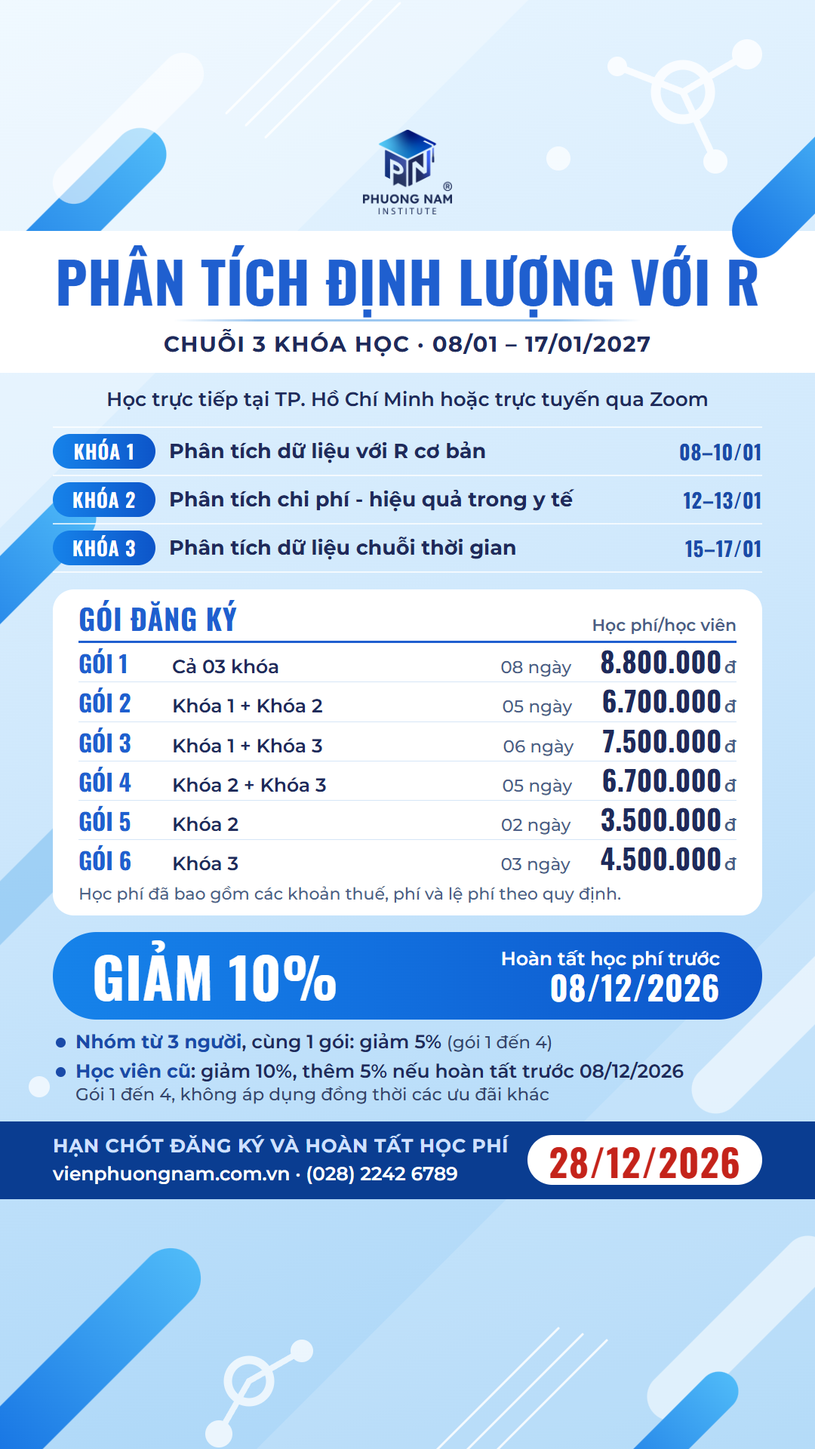
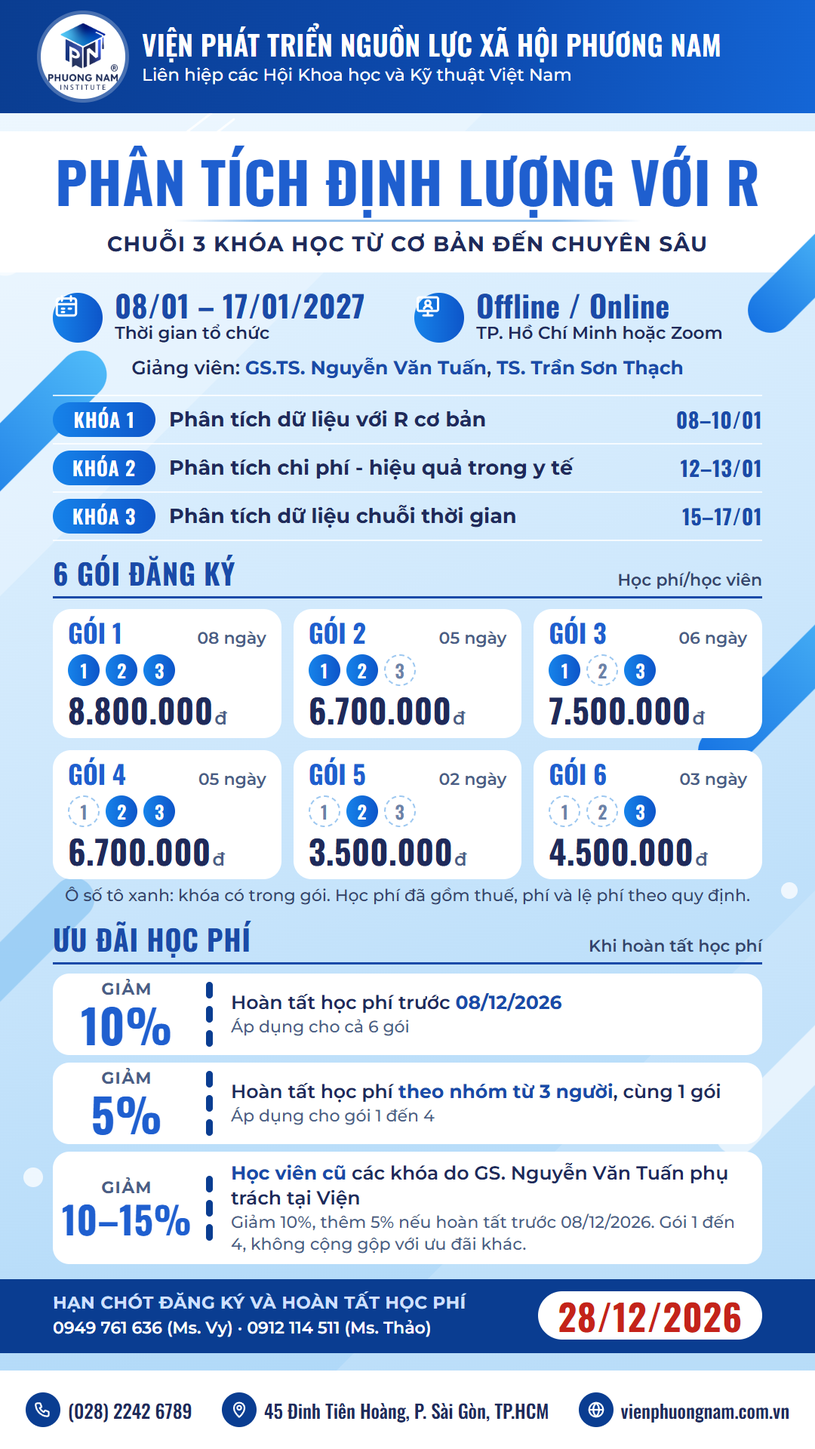
Fill the Story poster top to bottom and show packages as cards
Feedback on the first Story version: too much empty space at the top
and bottom, and the six-row package table should go. The layout now
follows the institute's approved posters while keeping the Magnific
"Gradient science" style.

- Header strip with the logo in a white circle, the institute's full
  name and its parent body; white footer strip with phone, address
  and website icons.
- Packages as six cards (3x2): three numbered course dots per card,
  filled for courses in the package and dashed for courses not in it,
  plus duration and fee. A one-line key under the cards explains the dots.
- Discounts as three coupons (10% before 08/12/2026 for all packages,
  5% for groups of 3+ on packages 1-4, 10-15% for returning learners,
  not combined with other offers), as on the approved poster.
- Date and Offline/Online facts with round icons, faculty line, and
  the 28/12/2026 deadline strip with Ms. Vy and Ms. Thao's numbers.
- Contrast fixes found by the detector: white sub-line in the header
  and #6b82a8 numbers on the "not included" dots (3.90:1, large bold).
- .impeccable/config.json: file-scoped ignore for the decorative
  capsule background flagged as an assembled illustration.

diff --git a/media/poster/ads/story-khoa-goi-uu-dai.html b/media/poster/ads/story-khoa-goi-uu-dai.html
@@ -4,86 +4,109 @@
 <meta charset="utf-8">
 <title>Story · Khóa học, gói, học phí, ưu đãi · Phân tích định lượng với R</title>
 <link rel="preconnect" href="https://fonts.googleapis.com">
-<link href="https://fonts.googleapis.com/css2?family=Montserrat:wght@500;600;700&family=Oswald:wght@600;700&display=swap" rel="stylesheet">
+<link href="https://fonts.googleapis.com/css2?family=Montserrat:wght@500;600;700&family=Oswald:wght@500;600;700&display=swap" rel="stylesheet">
 <style>
   /*
-    Style follows the "Gradient science" template series the client chose (magnific.com/serie/18774762):
-    pale sky gradient, diagonal capsules, a white headline band, condensed caps + geometric sans.
-    The blue gradient is taken from the logo's own cyan-to-navy gradient. Shapes are drawn here, not copied.
+    Style: the "Gradient science" template series the client chose (magnific.com/serie/18774762),
+    combined with the structure of the institute's approved posters: header strip with logo and
+    institute name, icon footer strip, coupon-style discounts. Blue gradient comes from the logo.
+    All shapes and icons are drawn here; no template files are used.
   */
   :root {
     --sky-0: #eaf6ff; --sky-1: #cfe8fc; --sky-2: #a6d4f7;
     --royal: #1f5fcf; --royal-ink: #1a4aa8; --navy: #1f2a5a; --muted: #4a5d86; --muted-ink: #34456c;
-    --deep: #0a3d91; --tint: #cfe0ff; --signal: #c4231a; --line: #d6e6f7;
+    --deep: #0a3d91; --tint: #cfe0ff; --signal: #c4231a; --line: #d6e6f7; --off: #9cc7f0;
+    --grad: linear-gradient(90deg, #1683ea, #0d55c9);
     --display: "Oswald", "Arial Narrow", sans-serif;
     --text: "Montserrat", "Segoe UI", sans-serif;
   }
   * { box-sizing: border-box; margin: 0; padding: 0; }
   html, body { background: #dfe7f0; }
 
-  /* Artboard: Instagram/Facebook Story 1080 x 1920. Top ~180 px and bottom ~280 px stay free of key text (app UI, CTA button). */
   .ad {
     width: 1080px; height: 1920px; margin: 0 auto; position: relative; overflow: hidden;
     background: linear-gradient(162deg, var(--sky-0) 0%, var(--sky-1) 46%, var(--sky-2) 100%);
     font-family: var(--text); color: var(--navy); font-variant-numeric: lining-nums tabular-nums;
+    display: flex; flex-direction: column;
   }
   .decor { position: absolute; inset: 0; width: 1080px; height: 1920px; }
   .decor.front { z-index: 3; pointer-events: none; }
-  .content { position: relative; z-index: 2; padding-top: 172px; display: flex; flex-direction: column; align-items: center; }
+  .ad > header, .ad > main, .ad > footer { position: relative; z-index: 2; }
 
-  .logo { height: 112px; }
+  /* Header strip, as on the approved posters */
+  .top { flex: none; height: 150px; background: linear-gradient(100deg, #0a3d91 0%, #0d4bb0 60%, #1466d6 100%); color: #fff;
+         display: flex; align-items: center; gap: 22px; padding: 0 54px; overflow: hidden; }
+  .top .badge { flex: none; width: 112px; height: 112px; border-radius: 50%; background: #fff; display: grid; place-items: center;
+                box-shadow: 0 0 0 5px rgba(255, 255, 255, 0.25); }
+  .top .badge img { width: 92px; }
+  .top p { font: 600 37px/1.3 var(--display); text-transform: uppercase; letter-spacing: 0.01em; }
+  .top p small { display: block; font: 500 23px/1.3 var(--text); text-transform: none; letter-spacing: 0; color: #fff; margin-top: 2px; }
 
-  .band { margin-top: 22px; width: 100%; background: #fff; padding: 22px 70px 20px; text-align: center; }
-  .band h1 { white-space: nowrap; font: 700 75px/1.16 var(--display); color: var(--royal); text-transform: uppercase; letter-spacing: 0.005em; }
-  .band hr { border: 0; height: 3px; width: 620px; margin: 8px auto 12px; background: linear-gradient(90deg, transparent, #9cc7f0 18%, #9cc7f0 82%, transparent); }
-  .band p { font: 700 29px/1.25 var(--text); text-transform: uppercase; letter-spacing: 0.05em; color: var(--navy); }
-
-  .intro { margin-top: 18px; text-align: center; }
-  .intro b { display: block; font: 700 36px/1.2 var(--text); color: var(--royal); }
-  .intro span { display: block; font: 600 26px/1.35 var(--text); }
-
+  main { flex: 1; display: flex; flex-direction: column; align-items: center; }
   .col { width: 940px; }
 
-  .courses { margin-top: 18px; }
-  .course { display: grid; grid-template-columns: 136px 1fr auto; align-items: center; column-gap: 18px; padding: 8px 0; border-bottom: 2px solid rgba(255, 255, 255, 0.75); }
-  .course:first-child { border-top: 2px solid rgba(255, 255, 255, 0.75); }
+  .band { margin-top: 24px; width: 100%; background: #fff; padding: 22px 70px 20px; text-align: center; }
+  .band h1 { white-space: nowrap; font: 700 75px/1.16 var(--display); color: var(--royal); text-transform: uppercase; letter-spacing: 0.005em; }
+  .band hr { border: 0; height: 3px; width: 620px; margin: 8px auto 12px; background: linear-gradient(90deg, transparent, var(--off) 18%, var(--off) 82%, transparent); }
+  .band p { font: 700 28px/1.25 var(--text); text-transform: uppercase; letter-spacing: 0.05em; }
+
+  .facts { margin-top: 22px; display: grid; grid-template-columns: 1fr 1fr; gap: 18px; }
+  .fact { display: flex; align-items: center; gap: 16px; }
+  .ico { flex: none; width: 66px; height: 66px; border-radius: 50%; background: var(--grad); display: grid; place-items: center; }
+  .ico svg { width: 36px; height: 36px; }
+  .fact b { display: block; font: 700 40px/1.05 var(--display); color: var(--royal-ink); letter-spacing: 0.01em; }
+  .fact span { display: block; font: 600 23px/1.3 var(--text); margin-top: 2px; }
+  .teach { margin-top: 14px; text-align: center; font: 600 25px/1.35 var(--text); }
+  .teach b { color: var(--royal-ink); }
+
+  .label { display: flex; align-items: baseline; justify-content: space-between; margin-top: 22px; padding-bottom: 8px; border-bottom: 3px solid var(--royal-ink); }
+  .label h2 { font: 700 38px/1.1 var(--display); color: var(--royal-ink); text-transform: uppercase; letter-spacing: 0.02em; }
+  .label span { font: 600 22px/1.2 var(--text); color: var(--muted-ink); }
+
+  .courses { margin-top: 18px; border-top: 2px solid rgba(255, 255, 255, 0.8); }
+  .course { display: grid; grid-template-columns: 136px 1fr auto; align-items: center; column-gap: 18px; padding: 8px 0; border-bottom: 2px solid rgba(255, 255, 255, 0.8); }
   .pill { display: inline-flex; justify-content: center; align-items: center; height: 46px; border-radius: 23px; color: #fff;
-          background: linear-gradient(90deg, #1683ea, #0d55c9); font: 600 26px/1 var(--display); letter-spacing: 0.04em; text-transform: uppercase; }
+          background: var(--grad); font: 600 26px/1 var(--display); letter-spacing: 0.04em; text-transform: uppercase; }
   .course .name { font: 700 27px/1.25 var(--text); }
-  .course .when { font: 700 27px/1 var(--display); color: var(--royal-ink); letter-spacing: 0.02em; }
+  .course .when { font: 700 28px/1 var(--display); color: var(--royal-ink); letter-spacing: 0.02em; }
 
-  .panel { margin-top: 22px; background: #fff; border-radius: 28px; padding: 18px 34px 14px; }
-  .panel-head { display: flex; justify-content: space-between; align-items: baseline; padding-bottom: 8px; border-bottom: 3px solid var(--royal); }
-  .panel-head h2 { font: 700 38px/1.1 var(--display); color: var(--royal); text-transform: uppercase; letter-spacing: 0.02em; }
-  .panel-head span { font: 600 22px/1 var(--text); color: var(--muted); }
-  .pkg { display: grid; grid-template-columns: 112px 1fr 120px auto; align-items: baseline; column-gap: 12px; padding: 5px 0 4px; border-bottom: 1px solid var(--line); }
-  .pkg .id { font: 700 31px/1.1 var(--display); color: var(--royal); text-transform: uppercase; }
-  .pkg .inc { font: 600 25px/1.25 var(--text); }
-  .pkg .dur { font: 500 23px/1.25 var(--text); color: var(--muted); }
-  .pkg .fee { font: 700 37px/1.05 var(--display); color: var(--navy); text-align: right; letter-spacing: 0.01em; }
-  .pkg .fee small { font: 600 23px var(--text); color: var(--muted); margin-left: 3px; }
-  .pkg:last-of-type { border-bottom: 0; }
-  .tax { margin-top: 6px; font: 500 22px/1.3 var(--text); color: var(--muted); }
+  /* Packages as cards: which courses (dots 1-2-3), days, fee */
+  .packs { margin-top: 14px; display: grid; grid-template-columns: repeat(3, 1fr); gap: 16px; }
+  .pack { background: #fff; border-radius: 24px; padding: 14px 20px 12px; }
+  .pack .hd { display: flex; justify-content: space-between; align-items: baseline; }
+  .pack .hd b { font: 700 34px/1 var(--display); color: var(--royal); text-transform: uppercase; }
+  .pack .hd span { font: 600 22px/1 var(--text); color: var(--muted); }
+  .dots { display: flex; gap: 8px; margin-top: 10px; }
+  .dot { width: 42px; height: 42px; border-radius: 50%; display: grid; place-items: center; font: 600 24px/1 var(--display); font-style: normal; }
+  .dot.on { background: var(--grad); color: #fff; }
+  .dot.off { border: 2px dashed var(--off); color: #6b82a8; }
+  .pack .fee { margin-top: 10px; font: 700 44px/1 var(--display); color: var(--navy); letter-spacing: 0.01em; }
+  .pack .fee small { font: 600 24px var(--text); color: var(--muted); margin-left: 2px; }
+  .tax { margin-top: 8px; font: 500 22px/1.3 var(--text); color: var(--muted-ink); text-align: center; }
 
-  .deal { margin-top: 22px; height: 116px; border-radius: 58px; display: flex; align-items: center; justify-content: space-between; padding: 0 56px 0 52px;
-          background: linear-gradient(90deg, #1683ea 0%, #1270df 45%, #0d55c9 100%); color: #fff; }
-  .deal strong { font: 700 74px/1 var(--display); letter-spacing: 0.01em; text-transform: uppercase; }
-  .deal div { text-align: right; }
-  .deal div span { display: block; font: 600 25px/1.2 var(--text); }
-  .deal div b { display: block; font: 700 44px/1.05 var(--display); letter-spacing: 0.02em; }
-
-  .more { margin-top: 12px; list-style: none; }
-  .more li { position: relative; padding-left: 30px; font: 600 25px/1.38 var(--text); }
-  .more li + li { margin-top: 4px; }
-  .more li::before { content: ""; position: absolute; left: 4px; top: 12px; width: 13px; height: 13px; border-radius: 50%; background: var(--royal-ink); }
-  .more li b { color: var(--royal-ink); }
-  .more li small { font: 500 23px/1.3 var(--text); color: var(--muted-ink); }
-  .more li small.cond { display: block; }
+  /* Discounts as coupons, as on the approved poster */
+  .coupons { margin-top: 12px; display: grid; gap: 10px; }
+  .coupon { background: #fff; border-radius: 22px; display: grid; grid-template-columns: 196px 22px 1fr; align-items: center; min-height: 96px; }
+  .coupon .stub { text-align: center; padding: 10px 0; }
+  .coupon .stub small { display: block; font: 700 22px/1 var(--text); color: var(--muted); letter-spacing: 0.06em; text-transform: uppercase; }
+  .coupon .stub b { display: block; margin-top: 4px; font: 700 62px/1 var(--display); color: var(--royal); letter-spacing: 0.01em; }
+  .coupon .stub b.sm { font-size: 50px; }
+  .perf { display: grid; gap: 10px; justify-items: center; }
+  .perf i { display: block; width: 9px; height: 22px; border-radius: 5px; background: var(--deep); }
+  .coupon p { padding: 12px 26px 12px 18px; font: 600 25px/1.32 var(--text); }
+  .coupon p em { font-style: normal; color: var(--royal-ink); font-weight: 700; }
+  .coupon p small { display: block; margin-top: 2px; font: 500 22px/1.3 var(--text); color: var(--muted); }
 
   .deadline { margin-top: 20px; width: 100%; background: var(--deep); color: #fff; padding: 16px 70px 18px; display: flex; justify-content: space-between; align-items: center; gap: 24px; }
-  .deadline .lbl { font: 700 25px/1.3 var(--text); color: var(--tint); text-transform: uppercase; letter-spacing: 0.03em; }
-  .deadline .lbl small { display: block; margin-top: 4px; font: 600 25px/1.3 var(--text); color: #fff; text-transform: none; letter-spacing: 0; }
-  .deadline .date { background: #fff; color: var(--signal); border-radius: 40px; padding: 9px 28px 7px; font: 700 50px/1 var(--display); letter-spacing: 0.02em; white-space: nowrap; }
+  .deadline .lbl { font: 700 23px/1.3 var(--text); color: var(--tint); text-transform: uppercase; letter-spacing: 0.02em; }
+  .deadline .lbl small { display: block; margin-top: 4px; font: 600 22px/1.3 var(--text); color: #fff; text-transform: none; letter-spacing: 0; }
+  .deadline .date { background: #fff; color: var(--signal); border-radius: 40px; padding: 9px 26px 7px; font: 700 48px/1 var(--display); letter-spacing: 0.02em; white-space: nowrap; }
+
+  /* Footer strip, as on the approved posters */
+  .foot { flex: none; height: 104px; margin-top: auto; background: #fff; display: flex; align-items: center; justify-content: space-between; padding: 0 34px; }
+  .foot div { display: flex; align-items: center; gap: 10px; font: 500 25px/1 var(--display); color: var(--navy); white-space: nowrap; }
+  .foot .ico { width: 46px; height: 46px; background: var(--deep); }
+  .foot .ico svg { width: 26px; height: 26px; }
 </style>
 </head>
 <body>
@@ -96,103 +119,106 @@
         <stop offset="1" stop-color="#1673e3"/>
       </linearGradient>
     </defs>
-    <polygon points="0,0 700,0 0,700" fill="#fff" opacity=".28"/>
-    <polygon points="1080,1920 1080,1180 340,1920" fill="#fff" opacity=".16"/>
+    <polygon points="0,150 640,150 0,790" fill="#fff" opacity=".28"/>
+    <polygon points="1080,1816 1080,1180 446,1816" fill="#fff" opacity=".16"/>
 
-    <!-- top left -->
-    <rect x="55" y="130" width="70" height="340" rx="35" fill="url(#capsule)" transform="rotate(45 90 300)"/>
-    <rect x="142" y="40" width="56" height="260" rx="28" fill="#fff" opacity=".6" transform="rotate(45 170 170)"/>
+    <!-- upper left, beside the band and facts -->
+    <rect x="-6" y="430" width="64" height="300" rx="32" fill="url(#capsule)" transform="rotate(45 26 580)"/>
+    <rect x="40" y="170" width="52" height="220" rx="26" fill="#fff" opacity=".6" transform="rotate(45 66 280)"/>
     <g stroke="#fff" stroke-width="3" opacity=".85" stroke-linecap="round">
-      <line x1="300" y1="150" x2="470" y2="-20"/>
-      <line x1="326" y1="166" x2="500" y2="-8"/>
-      <line x1="352" y1="182" x2="530" y2="4"/>
+      <line x1="150" y1="250" x2="280" y2="150"/>
+      <line x1="176" y1="262" x2="310" y2="158"/>
     </g>
 
-    <!-- top right: data nodes -->
-    <g fill="#fff" opacity=".8">
-      <g stroke="#fff" stroke-width="9" stroke-linecap="round">
-        <line x1="905" y1="122" x2="990" y2="72"/>
-        <line x1="905" y1="122" x2="948" y2="214"/>
-        <line x1="905" y1="122" x2="818" y2="88"/>
-      </g>
-      <circle cx="905" cy="122" r="36" fill="none" stroke="#fff" stroke-width="13"/>
-      <circle cx="990" cy="72" r="20"/>
-      <circle cx="948" cy="214" r="16"/>
-      <circle cx="818" cy="88" r="13"/>
-    </g>
-    <circle cx="740" cy="210" r="16" fill="#fff" opacity=".7"/>
-
-    <!-- left middle -->
-    <rect x="30" y="1000" width="60" height="300" rx="30" fill="#8cc6f3" opacity=".7" transform="rotate(45 60 1150)"/>
-    <rect x="-20" y="620" width="64" height="300" rx="32" fill="url(#capsule)" transform="rotate(45 12 770)"/>
-    <circle cx="52" cy="1440" r="14" fill="#fff" opacity=".7"/>
-
-    <!-- right middle -->
-    <rect x="1000" y="1210" width="64" height="300" rx="32" fill="#fff" opacity=".55" transform="rotate(45 1032 1360)"/>
-
-    <!-- bottom -->
-    <rect x="80" y="1610" width="80" height="380" rx="40" fill="url(#capsule)" transform="rotate(45 120 1800)"/>
-    <rect x="948" y="1600" width="64" height="320" rx="32" fill="#fff" opacity=".55" transform="rotate(45 980 1760)"/>
-    <rect x="860" y="1790" width="52" height="240" rx="26" fill="url(#capsule)" transform="rotate(45 886 1910)"/>
-    <g stroke="#fff" stroke-width="3" opacity=".85" stroke-linecap="round">
-      <line x1="560" y1="1940" x2="740" y2="1760"/>
-      <line x1="590" y1="1950" x2="772" y2="1768"/>
-      <line x1="620" y1="1960" x2="804" y2="1776"/>
-    </g>
-    <g fill="#fff" opacity=".75">
+    <!-- upper right: data nodes -->
+    <g fill="#fff" opacity=".85">
       <g stroke="#fff" stroke-width="8" stroke-linecap="round">
-        <line x1="330" y1="1830" x2="400" y2="1790"/>
-        <line x1="330" y1="1830" x2="290" y2="1900"/>
+        <line x1="962" y1="236" x2="1030" y2="196"/>
+        <line x1="962" y1="236" x2="996" y2="300"/>
+        <line x1="962" y1="236" x2="896" y2="206"/>
       </g>
-      <circle cx="330" cy="1830" r="28" fill="none" stroke="#fff" stroke-width="11"/>
-      <circle cx="400" cy="1790" r="15"/>
-      <circle cx="290" cy="1900" r="18"/>
+      <circle cx="962" cy="236" r="28" fill="none" stroke="#fff" stroke-width="10"/>
+      <circle cx="1030" cy="196" r="15"/>
+      <circle cx="996" cy="300" r="12"/>
+      <circle cx="896" cy="206" r="10"/>
     </g>
+
+    <!-- middle edges -->
+    <rect x="1010" y="760" width="60" height="300" rx="30" fill="url(#capsule)" transform="rotate(45 1040 910)"/>
+    <rect x="-10" y="1130" width="56" height="280" rx="28" fill="#8cc6f3" opacity=".7" transform="rotate(45 18 1270)"/>
+    <rect x="1020" y="1300" width="56" height="260" rx="28" fill="#fff" opacity=".6" transform="rotate(45 1048 1430)"/>
+    <circle cx="44" cy="1560" r="13" fill="#fff" opacity=".75"/>
+    <circle cx="1046" cy="1180" r="11" fill="#fff" opacity=".75"/>
   </svg>
 
-  <div class="content">
-    <img class="logo" src="../../brand-kit/logo/logo-color.png" alt="Viện Phương Nam">
+  <header class="top">
+    <span class="badge"><img src="../../brand-kit/logo/logo-color.png" alt="Logo Viện Phương Nam"></span>
+    <p>Viện Phát triển Nguồn lực Xã hội Phương Nam<small>Liên hiệp các Hội Khoa học và Kỹ thuật Việt Nam</small></p>
+  </header>
 
-    <header class="band">
+  <main>
+    <section class="band">
       <h1>Phân tích định lượng với R</h1>
       <hr>
-      <p>Chuỗi 3 khóa học · 08/01 – 17/01/2027</p>
-    </header>
-
-    <div class="intro">
-      <span>Học trực tiếp tại TP. Hồ Chí Minh hoặc trực tuyến qua Zoom</span>
-    </div>
-
-    <section class="col courses" aria-label="Ba khóa học">
-      <div class="course"><span class="pill">Khóa 1</span><span class="name">Phân tích dữ liệu với R cơ bản</span><span class="when">08–10/01</span></div>
-      <div class="course"><span class="pill">Khóa 2</span><span class="name">Phân tích chi phí - hiệu quả trong y tế</span><span class="when">12–13/01</span></div>
-      <div class="course"><span class="pill">Khóa 3</span><span class="name">Phân tích dữ liệu chuỗi thời gian</span><span class="when">15–17/01</span></div>
+      <p>Chuỗi 3 khóa học từ cơ bản đến chuyên sâu</p>
     </section>
 
-    <section class="col panel" aria-label="Gói đăng ký và học phí">
-      <div class="panel-head"><h2>Gói đăng ký</h2><span>Học phí/học viên</span></div>
-      <div class="pkg"><span class="id">Gói 1</span><span class="inc">Cả 03 khóa</span><span class="dur">08 ngày</span><span class="fee">8.800.000<small>đ</small></span></div>
-      <div class="pkg"><span class="id">Gói 2</span><span class="inc">Khóa 1 + Khóa 2</span><span class="dur">05 ngày</span><span class="fee">6.700.000<small>đ</small></span></div>
-      <div class="pkg"><span class="id">Gói 3</span><span class="inc">Khóa 1 + Khóa 3</span><span class="dur">06 ngày</span><span class="fee">7.500.000<small>đ</small></span></div>
-      <div class="pkg"><span class="id">Gói 4</span><span class="inc">Khóa 2 + Khóa 3</span><span class="dur">05 ngày</span><span class="fee">6.700.000<small>đ</small></span></div>
-      <div class="pkg"><span class="id">Gói 5</span><span class="inc">Khóa 2</span><span class="dur">02 ngày</span><span class="fee">3.500.000<small>đ</small></span></div>
-      <div class="pkg"><span class="id">Gói 6</span><span class="inc">Khóa 3</span><span class="dur">03 ngày</span><span class="fee">4.500.000<small>đ</small></span></div>
-      <p class="tax">Học phí đã bao gồm các khoản thuế, phí và lệ phí theo quy định.</p>
+    <div class="col facts">
+      <div class="fact">
+        <span class="ico"><svg viewBox="0 0 24 24" fill="none" stroke="#fff" stroke-width="2" stroke-linecap="round" stroke-linejoin="round"><rect x="3.5" y="5" width="17" height="15" rx="2"/><path d="M3.5 10h17M8 3v4M16 3v4M8 14h2M14 14h2M8 17h2"/></svg></span>
+        <div><b>08/01 – 17/01/2027</b><span>Thời gian tổ chức</span></div>
+      </div>
+      <div class="fact">
+        <span class="ico"><svg viewBox="0 0 24 24" fill="none" stroke="#fff" stroke-width="2" stroke-linecap="round" stroke-linejoin="round"><rect x="3" y="4" width="18" height="12" rx="1.5"/><path d="M8 20h8M12 16v4"/><circle cx="12" cy="9" r="2.2"/><path d="M8.5 14c.6-1.6 2-2.4 3.5-2.4s2.9.8 3.5 2.4"/></svg></span>
+        <div><b>Offline / Online</b><span>TP. Hồ Chí Minh hoặc Zoom</span></div>
+      </div>
+    </div>
+    <p class="col teach">Giảng viên: <b>GS.TS. Nguyễn Văn Tuấn</b>, <b>TS. Trần Sơn Thạch</b></p>
+
+    <section class="col" aria-label="Ba khóa học">
+      <div class="courses">
+        <div class="course"><span class="pill">Khóa 1</span><span class="name">Phân tích dữ liệu với R cơ bản</span><span class="when">08–10/01</span></div>
+        <div class="course"><span class="pill">Khóa 2</span><span class="name">Phân tích chi phí - hiệu quả trong y tế</span><span class="when">12–13/01</span></div>
+        <div class="course"><span class="pill">Khóa 3</span><span class="name">Phân tích dữ liệu chuỗi thời gian</span><span class="when">15–17/01</span></div>
+      </div>
+    </section>
+
+    <section class="col" aria-label="Gói đăng ký và học phí">
+      <div class="label"><h2>6 gói đăng ký</h2><span>Học phí/học viên</span></div>
+      <div class="packs">
+        <div class="pack"><div class="hd"><b>Gói 1</b><span>08 ngày</span></div><div class="dots"><i class="dot on">1</i><i class="dot on">2</i><i class="dot on">3</i></div><p class="fee">8.800.000<small>đ</small></p></div>
+        <div class="pack"><div class="hd"><b>Gói 2</b><span>05 ngày</span></div><div class="dots"><i class="dot on">1</i><i class="dot on">2</i><i class="dot off">3</i></div><p class="fee">6.700.000<small>đ</small></p></div>
+        <div class="pack"><div class="hd"><b>Gói 3</b><span>06 ngày</span></div><div class="dots"><i class="dot on">1</i><i class="dot off">2</i><i class="dot on">3</i></div><p class="fee">7.500.000<small>đ</small></p></div>
+        <div class="pack"><div class="hd"><b>Gói 4</b><span>05 ngày</span></div><div class="dots"><i class="dot off">1</i><i class="dot on">2</i><i class="dot on">3</i></div><p class="fee">6.700.000<small>đ</small></p></div>
+        <div class="pack"><div class="hd"><b>Gói 5</b><span>02 ngày</span></div><div class="dots"><i class="dot off">1</i><i class="dot on">2</i><i class="dot off">3</i></div><p class="fee">3.500.000<small>đ</small></p></div>
+        <div class="pack"><div class="hd"><b>Gói 6</b><span>03 ngày</span></div><div class="dots"><i class="dot off">1</i><i class="dot off">2</i><i class="dot on">3</i></div><p class="fee">4.500.000<small>đ</small></p></div>
+      </div>
+      <p class="tax">Ô số tô xanh: khóa có trong gói. Học phí đã gồm thuế, phí và lệ phí theo quy định.</p>
     </section>
 
     <section class="col" aria-label="Ưu đãi học phí">
-      <div class="deal"><strong>Giảm 10%</strong><div><span>Hoàn tất học phí trước</span><b>08/12/2026</b></div></div>
-      <ul class="more">
-        <li><b>Nhóm từ 3 người</b>, cùng 1 gói: giảm 5% <small>(gói 1 đến 4)</small></li>
-        <li><b>Học viên cũ</b>: giảm 10%, thêm 5% nếu hoàn tất trước 08/12/2026 <small class="cond">Gói 1 đến 4, không áp dụng đồng thời các ưu đãi khác</small></li>
-      </ul>
+      <div class="label"><h2>Ưu đãi học phí</h2><span>Khi hoàn tất học phí</span></div>
+      <div class="coupons">
+        <div class="coupon"><div class="stub"><small>Giảm</small><b>10%</b></div><div class="perf"><i></i><i></i><i></i></div>
+          <p>Hoàn tất học phí trước <em>08/12/2026</em><small>Áp dụng cho cả 6 gói</small></p></div>
+        <div class="coupon"><div class="stub"><small>Giảm</small><b>5%</b></div><div class="perf"><i></i><i></i><i></i></div>
+          <p>Hoàn tất học phí <em>theo nhóm từ 3 người</em>, cùng 1 gói<small>Áp dụng cho gói 1 đến 4</small></p></div>
+        <div class="coupon"><div class="stub"><small>Giảm</small><b class="sm">10–15%</b></div><div class="perf"><i></i><i></i><i></i></div>
+          <p><em>Học viên cũ</em> các khóa do GS. Nguyễn Văn Tuấn phụ trách tại Viện<small>Giảm 10%, thêm 5% nếu hoàn tất trước 08/12/2026. Gói 1 đến 4, không cộng gộp với ưu đãi khác.</small></p></div>
+      </div>
     </section>
 
     <section class="deadline" aria-label="Hạn chót">
-      <p class="lbl">Hạn chót đăng ký và hoàn tất học phí<small>vienphuongnam.com.vn · (028) 2242 6789</small></p>
+      <p class="lbl">Hạn chót đăng ký và hoàn tất học phí<small>0949 761 636 (Ms. Vy) · 0912 114 511 (Ms. Thảo)</small></p>
       <span class="date">28/12/2026</span>
     </section>
-  </div>
+  </main>
+
+  <footer class="foot">
+    <div><span class="ico"><svg viewBox="0 0 24 24" fill="none" stroke="#fff" stroke-width="2" stroke-linecap="round" stroke-linejoin="round"><path d="M5 4h3.5l1.8 4.5-2.3 1.4a11 11 0 0 0 5.1 5.1l1.4-2.3 4.5 1.8V18a2 2 0 0 1-2 2A15 15 0 0 1 3 6a2 2 0 0 1 2-2z"/></svg></span>(028) 2242 6789</div>
+    <div><span class="ico"><svg viewBox="0 0 24 24" fill="none" stroke="#fff" stroke-width="2" stroke-linecap="round" stroke-linejoin="round"><path d="M12 21s-6.5-6-6.5-11.2a6.5 6.5 0 0 1 13 0C18.5 15 12 21 12 21z"/><circle cx="12" cy="9.6" r="2.4"/></svg></span>45 Đinh Tiên Hoàng, P. Sài Gòn, TP.HCM</div>
+    <div><span class="ico"><svg viewBox="0 0 24 24" fill="none" stroke="#fff" stroke-width="2" stroke-linecap="round" stroke-linejoin="round"><circle cx="12" cy="12" r="8.5"/><path d="M3.5 12h17M12 3.5c2.4 2.4 3.6 5.2 3.6 8.5s-1.2 6.1-3.6 8.5c-2.4-2.4-3.6-5.2-3.6-8.5S9.6 5.9 12 3.5z"/></svg></span>vienphuongnam.com.vn</div>
+  </footer>
 
   <svg class="decor front" viewBox="0 0 1080 1920" aria-hidden="true">
     <defs>
@@ -201,7 +227,7 @@
         <stop offset="1" stop-color="#1673e3"/>
       </linearGradient>
     </defs>
-    <rect x="1026" y="135" width="72" height="230" rx="36" fill="url(#capsule-front)" transform="rotate(45 1062 250)"/>
+    <rect x="1030" y="287" width="60" height="170" rx="30" fill="url(#capsule-front)" transform="rotate(45 1060 372)"/>
   </svg>
 </article>
 </body>
